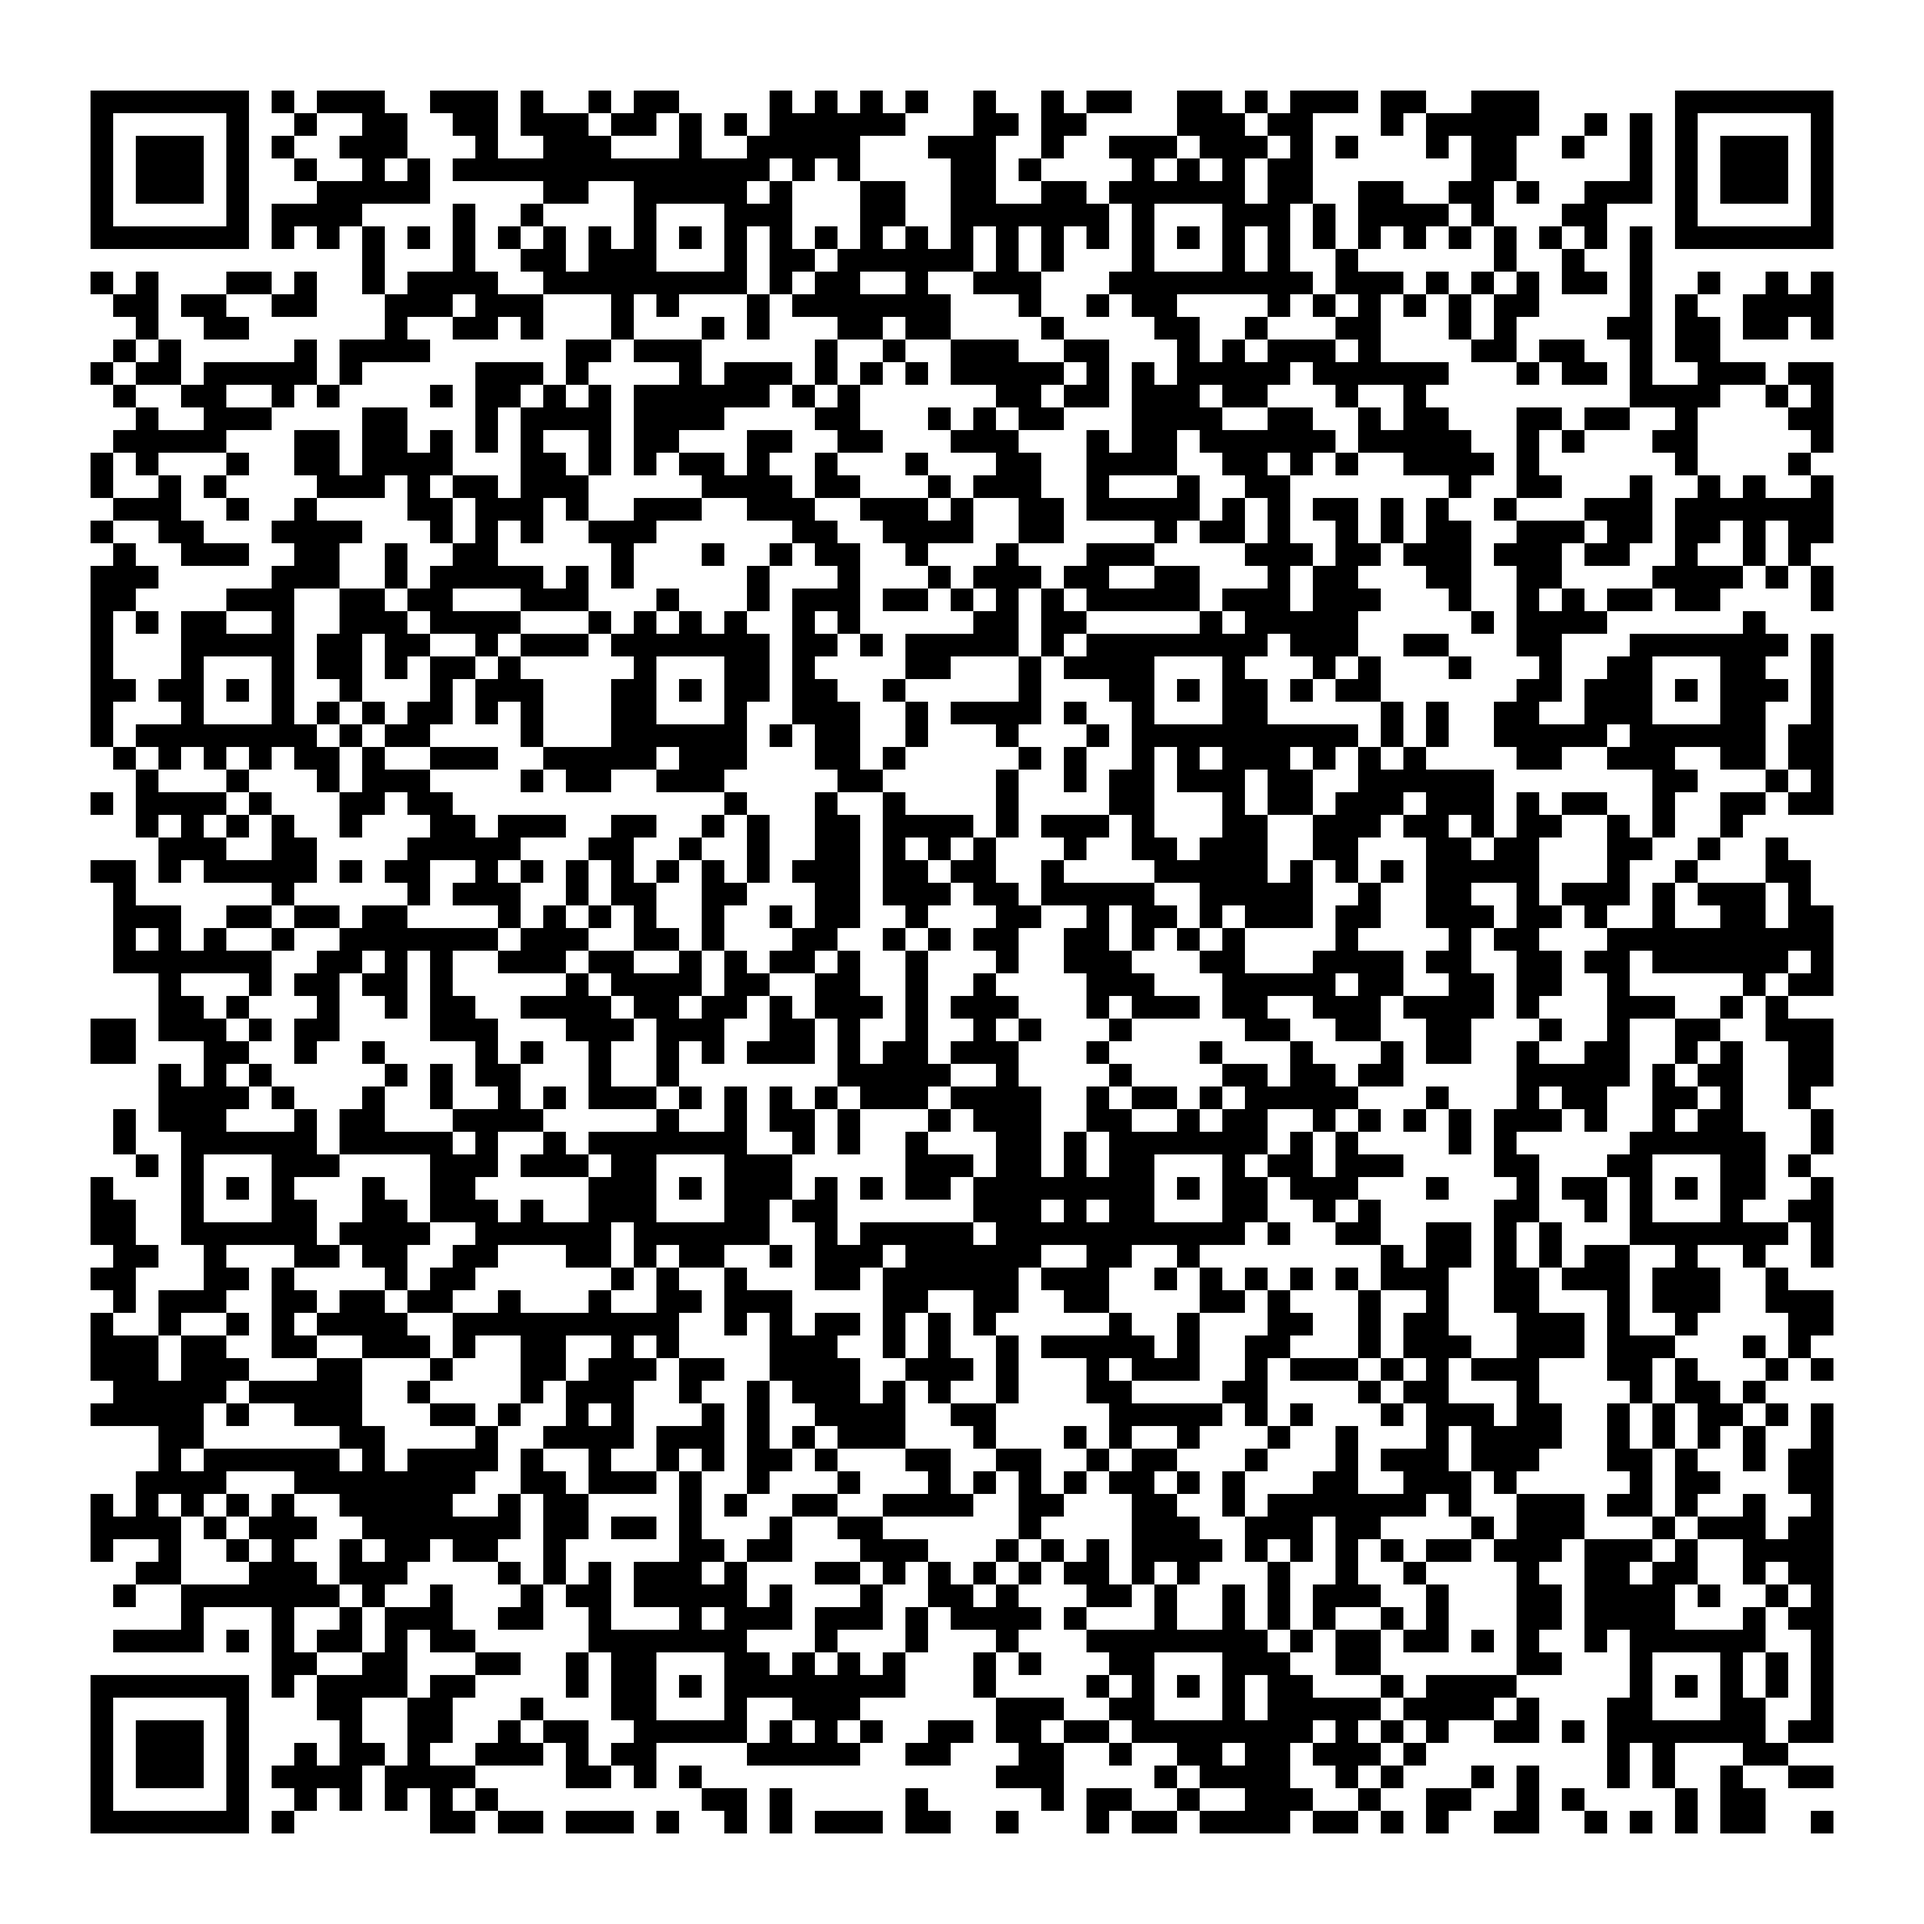
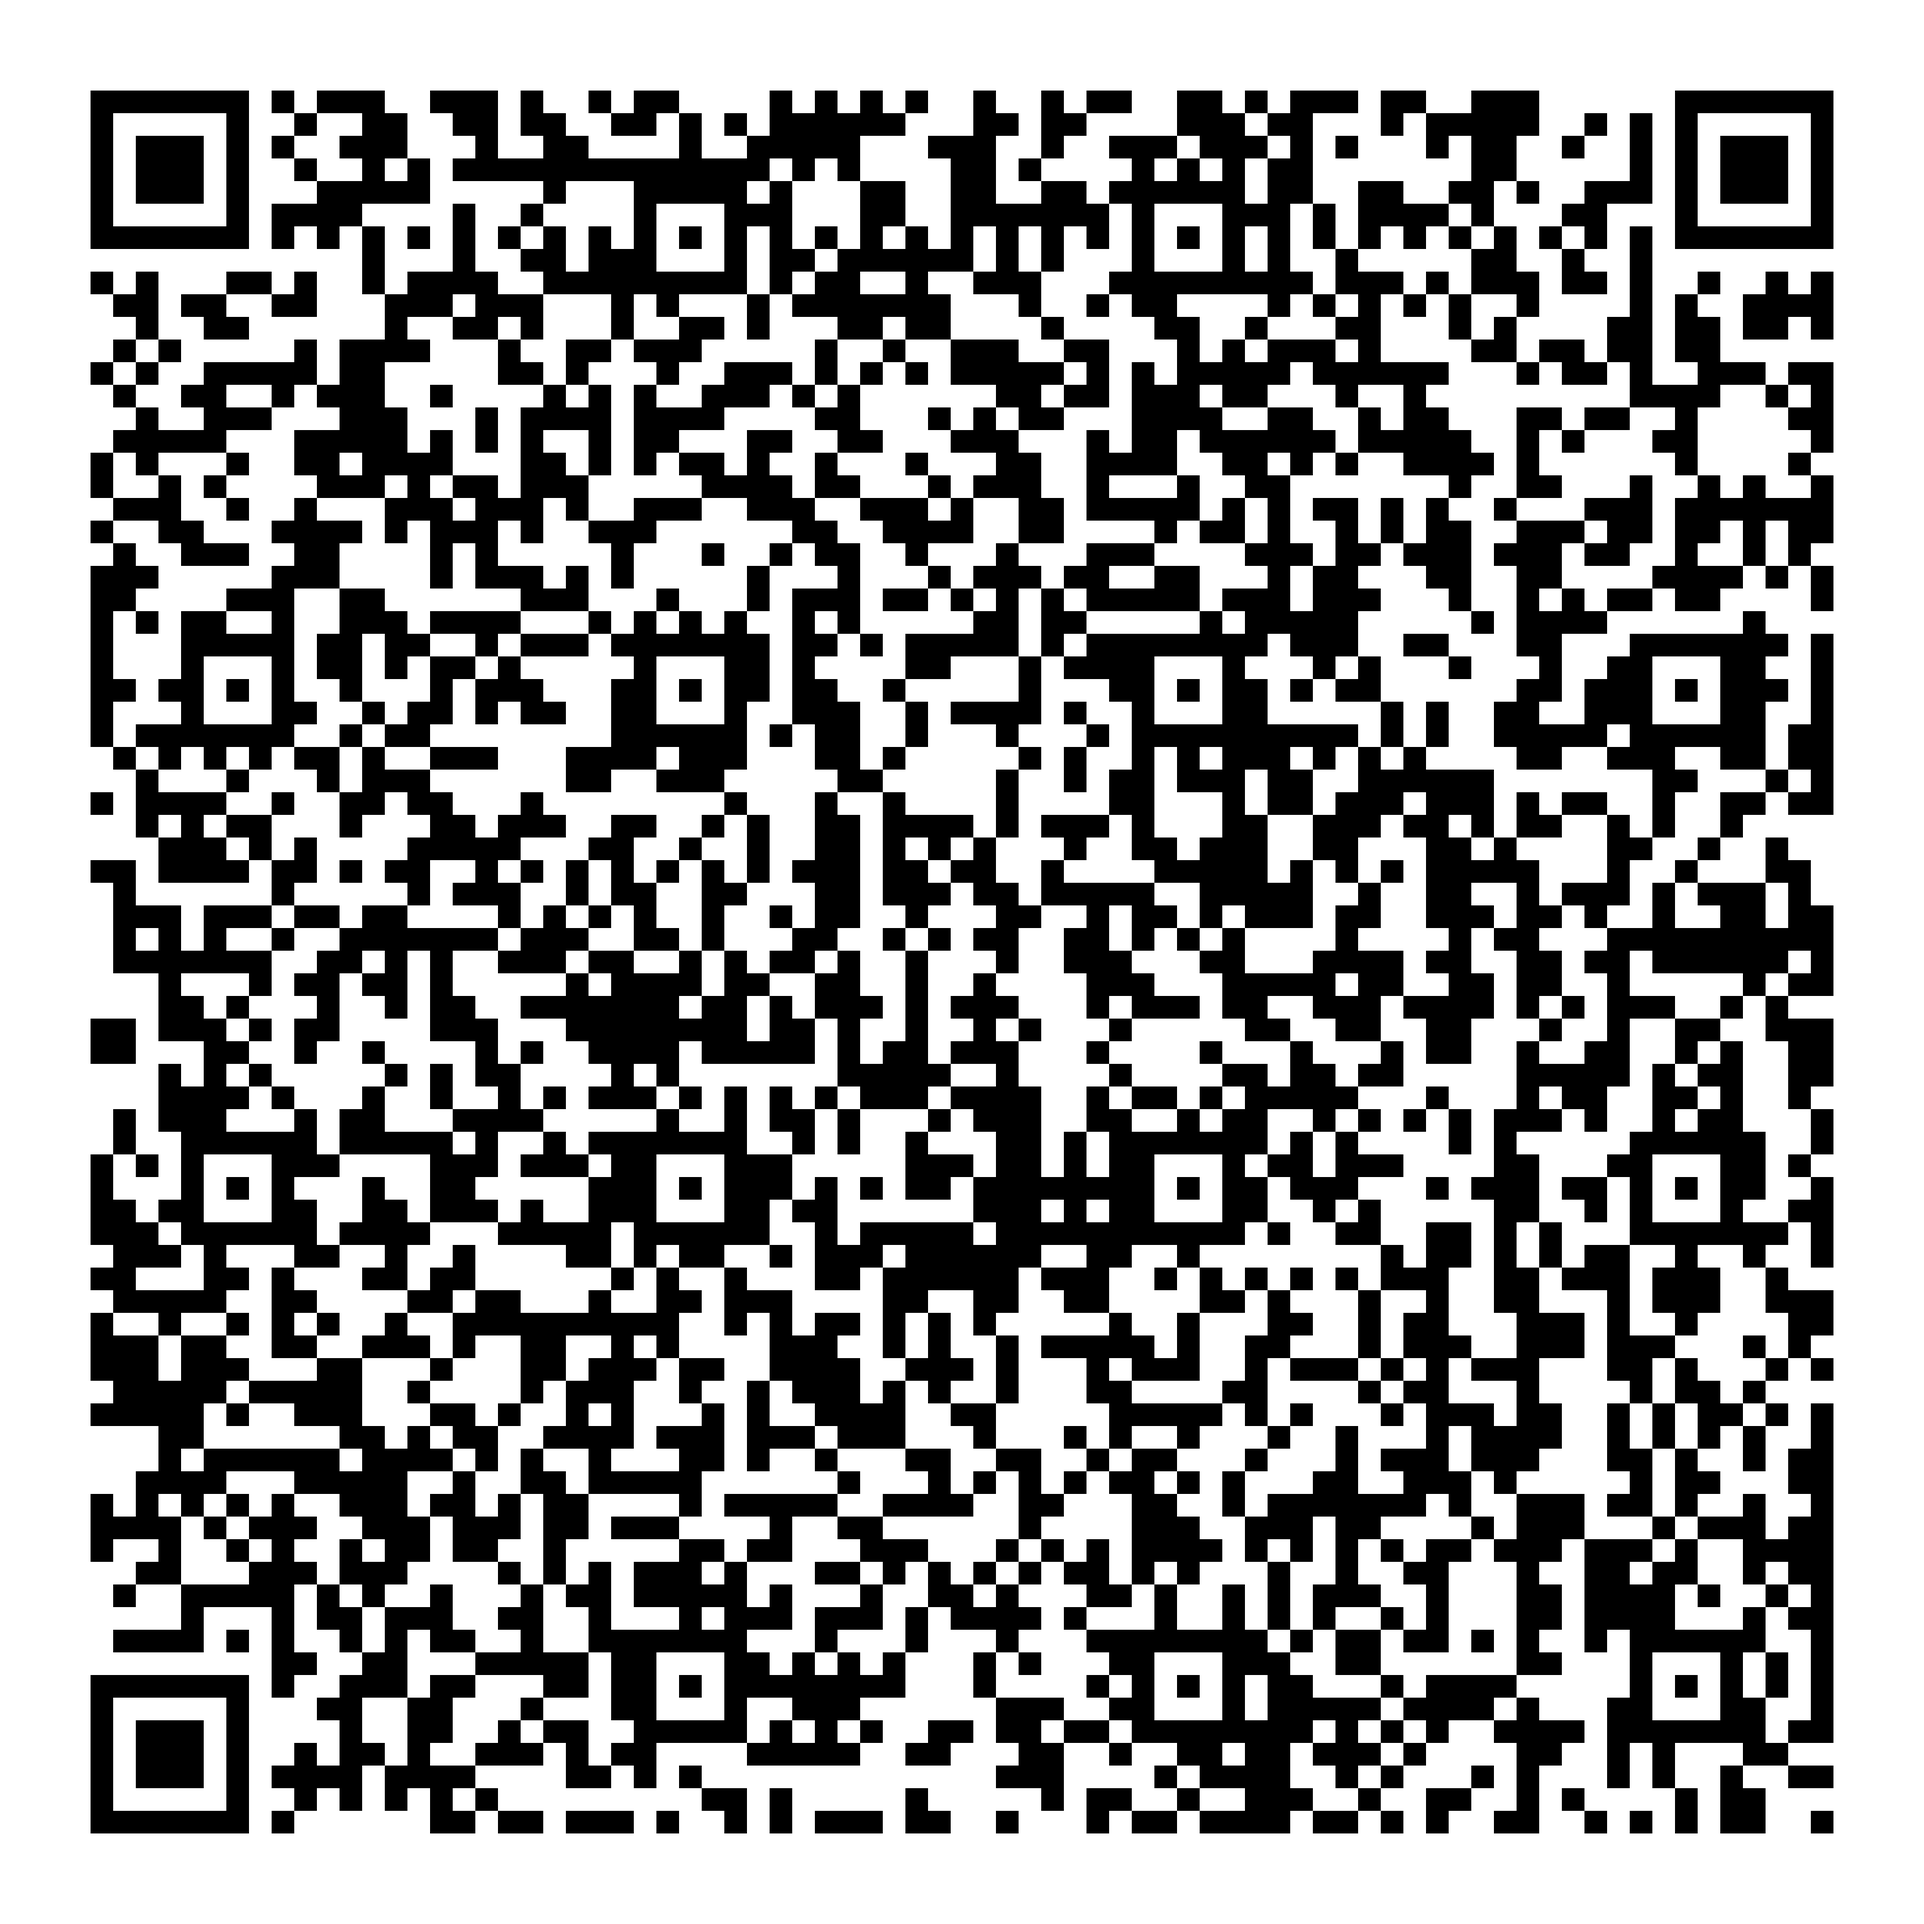
Update Jacques's phone number to +27 67 946 0812 (#8)
Changed in the site generator, validator, BRAND.md and vCard QR source,
then regenerated contact.html and the vCard QR code.

Claude-Session: https://claude.ai/code/session_017istcdhgSTwLJgjbrEzsxU

diff --git a/contact.html b/contact.html
@@ -183,11 +183,11 @@
                 <span class="contact-item__value">+27 71 118 3257</span>
               </span>
             </a>
-            <a class="contact-item" href="tel:+27671612570">
+            <a class="contact-item" href="tel:+27679460812">
               <svg class="ico" aria-hidden="true"><use href="#i-phone"/></svg>
               <span>
                 <span class="contact-item__label">Jacques, Director</span>
-                <span class="contact-item__value">+27 67 161 2570</span>
+                <span class="contact-item__value">+27 67 946 0812</span>
               </span>
             </a>
             <div class="contact-item">
@@ -276,7 +276,7 @@
             <div class="dir-card__avatar"><svg class="ico ico--lg" aria-hidden="true"><use href="#i-users"/></svg></div>
             <h3 class="dir-card__name">Jacques</h3>
             <p class="dir-card__role">Director</p>
-            <a class="dir-card__row" href="tel:+27671612570"><svg class="ico" aria-hidden="true"><use href="#i-phone"/></svg> +27 67 161 2570</a>
+            <a class="dir-card__row" href="tel:+27679460812"><svg class="ico" aria-hidden="true"><use href="#i-phone"/></svg> +27 67 946 0812</a>
             <a class="dir-card__row" href="mailto:ops@greymanprotection.co.za"><svg class="ico" aria-hidden="true"><use href="#i-mail"/></svg> ops@greymanprotection.co.za</a>
           </article>
           </div>

diff --git a/tools/validate.py b/tools/validate.py
@@ -157,7 +157,7 @@ for page in pages:
     # ---- 8. contact data exactness ----
     for bad in re.findall(r"\+27[\s\d&nbsp;]{8,}", src):
         digits = re.sub(r"\D", "", bad)
-        if digits and digits not in ("27711183257", "27671612570"):
+        if digits and digits not in ("27711183257", "27679460812"):
             errors.append(f"{P}: unknown phone number -> {bad.strip()}")
     for mail in re.findall(r"[\w.+-]+@[\w-]+(?:\.[\w-]+)+", src):
         # The Information Regulator's published address, verified on

diff --git a/tools/build-contact-qr.py b/tools/build-contact-qr.py
@@ -37,7 +37,7 @@ VCARD = "\r\n".join([
     "ORG:Greyman Protection",
     "TITLE:Security, Protection, Intelligence, Control",
     "TEL;TYPE=WORK,VOICE:+27711183257",
-    "TEL;TYPE=WORK,VOICE:+27671612570",
+    "TEL;TYPE=WORK,VOICE:+27679460812",
     "EMAIL;TYPE=WORK:ops@greymanprotection.co.za",
     "ADR;TYPE=WORK:;;466 Karel Trichardt Street;Mountainview, Pretoria;;;South Africa",
     "URL:https://www.greymanprotection.co.za",

diff --git a/tools/build-site.py b/tools/build-site.py
@@ -76,7 +76,7 @@ EMAIL = "ops@greymanprotection.co.za"
 ADDRESS = "466 Karel Trichardt Street, Mountainview, Pretoria"
 DIRECTORS = [
     ("Etienne", "Director", "+27 71 118 3257", "27711183257"),
-    ("Jacques", "Director", "+27 67 161 2570", "27671612570"),
+    ("Jacques", "Director", "+27 67 946 0812", "27679460812"),
 ]
 
 # Build credit in the footer. Both verified to return 200 before being linked.

diff --git a/BRAND.md b/BRAND.md
@@ -14,7 +14,7 @@ disagree, this file wins and the code is wrong.
 | Positioning | Specialist security, protection and investigative services, South Africa |
 | Email | **ops@greymanprotection.co.za** |
 | Office | 466 Karel Trichardt Street, Mountainview, Pretoria |
-| Directors | Etienne, +27 71 118 3257 · Jacques, +27 67 161 2570 |
+| Directors | Etienne, +27 71 118 3257 · Jacques, +27 67 946 0812 |
 
 The logo wordmark reads "GREY MAN"; the company name is written **Greyman
 Protection** as one word, per the company profile. Both are correct in their own
